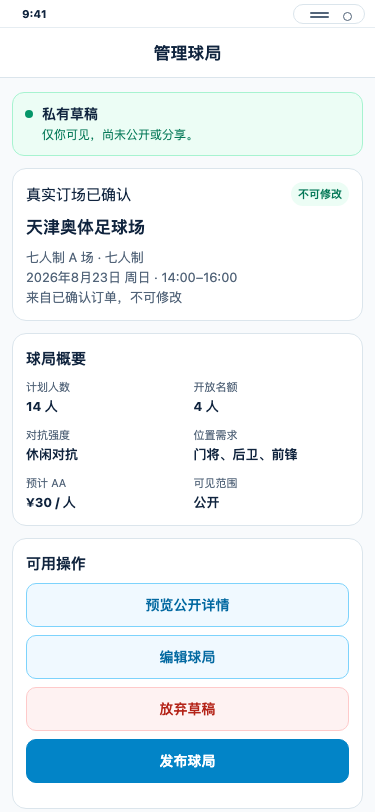
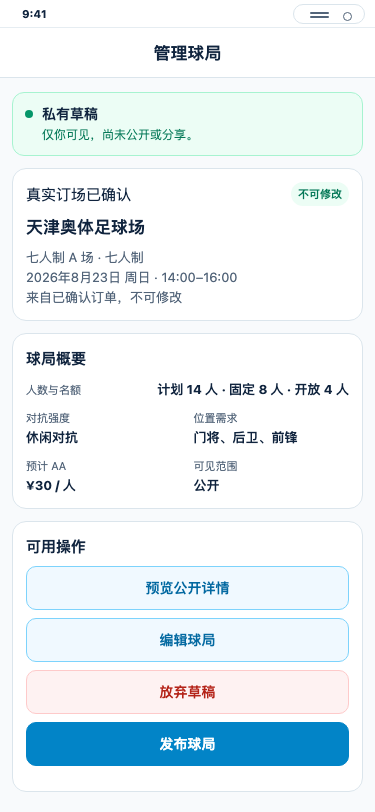
fix: preserve captain draft and cancellation truth

diff --git a/artifacts/ui/references/captain-open-game-data.js b/artifacts/ui/references/captain-open-game-data.js
@@ -11,14 +11,32 @@ export const CAPTAIN_OPEN_GAME_INTERNAL_STATE_IDS = freeze([...CAPTAIN_OPEN_GAME
 export const CAPTAIN_OPEN_GAME_LIFECYCLES = freeze(["UNSAVED", "DRAFT", "PUBLISHED", "CANCELLED"]);
 const managementStateByLifecycle = freeze({ UNSAVED: "create-ready", DRAFT: "draft-manage", PUBLISHED: "published-manage", CANCELLED: "cancelled-readonly" });
 export const resolveFixtureRoute = (lifecycle, requestedState) => {
-  if (requestedState === "public-readonly") return "public-readonly";
   if (lifecycle === "CANCELLED") return "cancelled-readonly";
+  if (requestedState === "public-readonly") return "public-readonly";
   if (requestedState === "create-ready") return "create-ready";
   return managementStateByLifecycle[lifecycle];
 };
 export const CONFIRMED_ORDER = freeze({
   venue: "天津奥体足球场", pitch: "七人制 A 场", date: "2026年8月23日 周日", time: "14:00–16:00", format: "七人制", booking: "来自已确认订单，不可修改",
 });
+export const DEFAULT_GAME_FORM = freeze({ total: 14, fixed: 8, open: 4, intensity: "休闲对抗", positions: "门将、后卫、前锋", aa: "¥30 / 人", deadline: "8月23日 12:00", visibility: "公开" });
+export const createGameForm = (source = DEFAULT_GAME_FORM) => ({ ...source });
+export const freezeGameSnapshot = (form) => freeze({ ...form });
+export const applyFormStepperAction = (form, action) => {
+  const next = createGameForm(form);
+  if (action === "total-decrease") next.total = Math.max(4, next.fixed + next.open, next.total - 1);
+  if (action === "total-increase") next.total = Math.min(30, next.total + 1);
+  if (action === "fixed-decrease") next.fixed = Math.max(1, next.fixed - 1);
+  if (action === "fixed-increase") next.fixed = Math.min(next.total - next.open, next.fixed + 1);
+  if (action === "open-decrease") next.open = Math.max(1, next.open - 1);
+  if (action === "open-increase") next.open = Math.min(next.total - next.fixed, next.open + 1);
+  return next;
+};
+export const getGameSummary = (game) => [
+  ["人数与名额", `计划 ${game.total} 人 · 固定 ${game.fixed} 人 · 开放 ${game.open} 人`],
+  ["对抗强度", game.intensity], ["位置需求", game.positions], ["预计 AA", game.aa], ["可见范围", game.visibility],
+];
+const getPublishDetails = (game) => [["真实场地", "天津奥体足球场 · 七人制 A 场"], ["开放名额", `${game.open} 人`], ["预计 AA", game.aa], ["线下结算", "到场线下结算，平台不代收或担保"], ["报名截止", game.deadline], ["可见范围", game.visibility]];
 
 const actions = {
   save: { id: "save-draft", label: "保存草稿", nextState: "draft-manage", fixtureTransition: "save private DRAFT" },
@@ -33,7 +51,7 @@ const actions = {
 };
 
 export const CAPTAIN_OPEN_GAME_STATES = freeze({
-  "create-ready": { id: "create-ready", title: "创建球局", actions: [actions.save], values: { total: 14, fixed: 8, open: 4, intensity: "休闲对抗", positions: "门将、后卫、前锋", aa: "¥30 / 人", deadline: "8月23日 12:00", visibility: "公开" } },
+  "create-ready": { id: "create-ready", title: "创建球局", actions: [actions.save], values: DEFAULT_GAME_FORM },
   "draft-manage": { id: "draft-manage", title: "管理球局", status: "私有草稿", description: "仅你可见，尚未公开或分享。", actions: [actions.preview, actions.edit, actions.abandon, actions.beginPublish] },
   "published-manage": { id: "published-manage", title: "管理球局", status: "已发布", description: "公开详情已可查看；申请功能尚未开放。", actions: [actions.share, actions.open, actions.edit, actions.cancel], cancelNotice: "只取消本次开放球局，不会取消已预订场地，也不会发起退款。" },
   "public-readonly": { id: "public-readonly", title: "公开球局", notice: "当前仅供查看，申请加入即将开放", actions: [actions.return] },
@@ -44,7 +62,6 @@ export const FIXTURE_PANELS = freeze({
   publish: {
     title: "发布前确认", message: "发布后会展示下列公开信息；平台不代收或担保线下结算。",
     items: ["真实场地", "开放名额", "预计 AA", "线下结算", "报名截止", "可见范围"],
-    details: [["真实场地", "天津奥体足球场 · 七人制 A 场"], ["开放名额", "4 人"], ["预计 AA", "¥30 / 人"], ["线下结算", "到场线下结算，平台不代收或担保"], ["报名截止", "8月23日 12:00"], ["可见范围", "公开"]],
     close: { id: "close-panel", label: "返回修改", fixtureTransition: "close publish confirmation" },
     confirm: { id: "confirm-publish", label: "确认发布", fixtureTransition: "publish Fixture game" },
   },
@@ -76,7 +93,8 @@ const getRoute = () => {
 let { state: requestedState, from: returnState, panel, lifecycle } = getRoute();
 let stateId = resolveFixtureRoute(lifecycle, requestedState);
 let feedback = "";
-let formValues = { ...CAPTAIN_OPEN_GAME_STATES["create-ready"].values };
+let formValues = createGameForm();
+let savedGame = freezeGameSnapshot(formValues);
 
 const el = (tag, className, text) => { const node = document.createElement(tag); if (className) node.className = className; if (text !== undefined) node.textContent = text; return node; };
 const button = (action, className = "secondary") => { const node = el("button", className, action.label); node.type = "button"; node.dataset.action = action.id; node.setAttribute("aria-label", action.label); return node; };
@@ -96,14 +114,15 @@ const createScreen = () => {
   screen.append(el("p", "disclosure", lifecycle === "PUBLISHED" ? "装备：深浅两套球衣；提前 15 分钟到场。保存修改后仍保持已发布。" : "装备：深浅两套球衣；提前 15 分钟到场。保存后仅创建你可见的私有草稿。"));
   return screen;
 };
-const gameSummary = () => { const card = el("section", "card section"); const grid = el("dl", "summary-grid"); [["计划人数", "14 人"], ["开放名额", "4 人"], ["对抗强度", "休闲对抗"], ["位置需求", "门将、后卫、前锋"], ["预计 AA", "¥30 / 人"], ["可见范围", "公开"]].forEach(([term, value]) => { const item = el("div"); item.append(el("dt", "", term), el("dd", "", value)); grid.append(item); }); card.append(el("h2", "summary-title", "球局概要"), grid); return card; };
+const gameSummary = (game = savedGame) => { const card = el("section", "card section"); const grid = el("dl", "summary-grid"); getGameSummary(game).forEach(([term, value]) => { const item = el("div"); item.append(el("dt", "", term), el("dd", "", value)); grid.append(item); }); card.append(el("h2", "summary-title", "球局概要"), grid); return card; };
 const manageScreen = (state) => { const screen = el("section", "screen screen--manage"); const status = el("section", `status-row${state.lifecycle === "CANCELLED" ? " status-row--cancelled" : ""}`); const copy = el("div"); copy.append(el("strong", "", state.status), el("p", "", state.description)); status.append(el("span", "status-dot"), copy); screen.append(status, orderCard(), gameSummary()); if (state.actions.length) { const list = el("section", "action-list section"); state.actions.forEach((action) => list.append(button(action, action.id === "cancel" || action.id === "abandon" ? "danger" : action.id === "begin-publish" ? "primary" : "secondary"))); screen.append(section("可用操作", list)); } if (state.cancelNotice) screen.append(el("p", "disclosure", state.cancelNotice)); return screen; };
 const publicScreen = (state) => { const screen = el("section", "screen screen--public"); screen.append(el("p", "eyebrow", "真实订场已确认"), el("h2", "public-heading", "奥体周日轻松局"), el("p", "public-subtitle", "津门周末足球队 · 休闲对抗"), orderCard(), gameSummary()); const details = el("section", "card public-details section"); details.append(el("p", "", "最低经验：有基本传接球经验即可"), el("p", "", "报名截止：8月23日 12:00"), el("p", "", "装备与到场：深浅两套球衣，提前 15 分钟到场"), el("p", "", "成人参与，请自行评估运动风险；到场线下结算，平台不代收或担保。")); screen.append(details, el("p", "public-notice", state.notice), button(actions.return, "secondary")); return screen; };
 const renderPanel = () => {
   if (!panel) return null;
   const data = FIXTURE_PANELS[panel]; const scrim = el("section", "fixture-scrim"); const sheet = el("section", "fixture-sheet");
   sheet.append(el("h2", "", data.title), el("p", "", data.message));
-  if (data.details) { const details = el("dl", "confirm-details"); data.details.forEach(([label, value]) => { const item = el("div"); item.append(el("dt", "", label), el("dd", "", value)); details.append(item); }); sheet.append(details); }
+  const detailsData = panel === "publish" ? getPublishDetails(savedGame) : data.details;
+  if (detailsData) { const details = el("dl", "confirm-details"); detailsData.forEach(([label, value]) => { const item = el("div"); item.append(el("dt", "", label), el("dd", "", value)); details.append(item); }); sheet.append(details); }
   const controls = el("div", "fixture-sheet__actions"); if (data.close) controls.append(button(data.close, "secondary")); if (data.confirm) controls.append(button(data.confirm, panel === "cancel" || panel === "abandon" ? "danger" : "primary")); sheet.append(controls); scrim.append(sheet); return scrim;
 };
 const syncUrl = (historyMethod) => { const params = new URLSearchParams(window.location.search); params.set("state", stateId); params.delete("panel"); if (stateId === "public-readonly") params.set("from", returnState); else params.delete("from"); window.history[historyMethod]({ state: stateId, from: returnState, lifecycle }, "", `${window.location.pathname}?${params}`); };
@@ -111,19 +130,20 @@ const navigate = (nextState, source = stateId) => { stateId = resolveFixtureRout
 const commitLifecycle = (nextLifecycle) => { lifecycle = nextLifecycle; stateId = managementStateByLifecycle[lifecycle]; returnState = stateId === "draft-manage" || stateId === "published-manage" ? stateId : returnState; panel = null; syncUrl("replaceState"); render(); };
 const transition = (action) => {
   const step = /^(total|fixed|open)-(increase|decrease)$/.exec(action);
-  if (step) { const [, field, direction] = step; const amount = direction === "increase" ? 1 : -1; const limits = { total: [4, 30], fixed: [1, formValues.total - formValues.open], open: [1, formValues.total - formValues.fixed] }; formValues[field] = Math.min(limits[field][1], Math.max(limits[field][0], formValues[field] + amount)); feedback = "update form Fixture value"; render(); return; }
+  if (step) { formValues = applyFormStepperAction(formValues, action); feedback = "update form Fixture value"; render(); return; }
   if (action === "begin-publish") { feedback = actions.beginPublish.fixtureTransition; panel = "publish"; render(); return; }
   if (action === "abandon") { feedback = actions.abandon.fixtureTransition; panel = "abandon"; render(); return; }
   if (action === "cancel") { feedback = actions.cancel.fixtureTransition; panel = "cancel"; render(); return; }
   if (action === "share") { feedback = actions.share.fixtureTransition; panel = "share"; render(); return; }
   if (action === "close-panel") { feedback = FIXTURE_PANELS[panel].close.fixtureTransition; panel = null; render(); return; }
   if (action === "confirm-publish") { feedback = FIXTURE_PANELS.publish.confirm.fixtureTransition; commitLifecycle("PUBLISHED"); return; }
-  if (action === "confirm-abandon") { feedback = FIXTURE_PANELS.abandon.confirm.fixtureTransition; commitLifecycle("UNSAVED"); return; }
+  if (action === "confirm-abandon") { feedback = FIXTURE_PANELS.abandon.confirm.fixtureTransition; formValues = createGameForm(); savedGame = freezeGameSnapshot(formValues); commitLifecycle("UNSAVED"); return; }
   if (action === "confirm-cancel") { feedback = FIXTURE_PANELS.cancel.confirm.fixtureTransition; commitLifecycle("CANCELLED"); return; }
   if (action === "return-manage") { feedback = actions.return.fixtureTransition; navigate(returnState, returnState); return; }
   const found = CAPTAIN_OPEN_GAME_STATES[stateId].actions.find(({ id }) => id === action); if (!found) return;
   feedback = found.fixtureTransition;
-  if (action === "save-draft") { commitLifecycle(lifecycle === "PUBLISHED" ? "PUBLISHED" : "DRAFT"); return; }
+  if (action === "save-draft") { savedGame = freezeGameSnapshot(formValues); commitLifecycle(lifecycle === "PUBLISHED" ? "PUBLISHED" : "DRAFT"); return; }
+  if (action === "edit") formValues = createGameForm(savedGame);
   navigate(found.nextState, stateId);
 };
 function render() { const state = CAPTAIN_OPEN_GAME_STATES[stateId]; const publishedEdit = stateId === "create-ready" && lifecycle === "PUBLISHED"; app.replaceChildren(system(publishedEdit ? "编辑球局" : state.title)); if (feedback) app.append(el("p", "fixture-feedback", `Fixture：${feedback}`)); app.append(stateId === "create-ready" ? createScreen() : stateId === "public-readonly" ? publicScreen(state) : manageScreen(state)); if (stateId === "create-ready") { const footer = el("footer", "footer"); footer.append(button(publishedEdit ? { ...actions.save, label: "保存修改" } : actions.save, "primary")); app.append(footer); } const overlay = renderPanel(); if (overlay) app.append(overlay); app.querySelectorAll("button[data-action]").forEach((node) => node.addEventListener("click", () => transition(node.dataset.action))); }

diff --git a/artifacts/ui/references/captain-open-game.css b/artifacts/ui/references/captain-open-game.css
@@ -78,6 +78,8 @@ button { color: inherit; cursor: pointer; }
 .status-row--cancelled p { color: var(--danger); }
 .summary-grid { display: grid; grid-template-columns: 1fr 1fr; gap: 10px 12px; margin: 0; }
 .summary-grid div { min-width: 0; }
+.summary-grid div:first-child { display: grid; grid-column: 1 / -1; grid-template-columns: auto minmax(0, 1fr); align-items: baseline; gap: 8px; }
+.summary-grid div:first-child dd { text-align: right; }
 .summary-grid dt { color: var(--muted); font-size: 11px; line-height: 17px; }
 .summary-grid dd { margin: 2px 0 0; font-size: 13px; font-weight: 700; line-height: 19px; }
 .action-list { display: grid; gap: 8px; }

diff --git a/artifacts/ui/flows/captain-open-game.md b/artifacts/ui/flows/captain-open-game.md
@@ -25,3 +25,7 @@
 公开页只公开场馆、物理场地、日期时间、人数、强度、位置、AA、截止和到场说明；公开页不暴露联系、订单或支付字段。
 
 Fixture 将 `UNSAVED`、`DRAFT`、`PUBLISHED` 和 `CANCELLED` 作为独立业务生命周期保存。保存草稿、确认发布、放弃草稿和确认取消以 `replaceState` 替换当前 history 条目；公开预览及编辑等纯导航才使用 `pushState`。因此浏览器 Back 命中旧的草稿或已发布 URL 时，`popstate` 先按当前生命周期解析：`PUBLISHED` 不会回退为 `DRAFT`，`CANCELLED` 不会重新显示分享、编辑或取消操作。
+
+人数步进器始终即时约束 `固定队员 + 开放名额 ≤ 计划总人数`：减少计划人数会停在当前固定与开放人数之和，增加固定或开放人数会停在剩余容量。保存草稿时冻结当前表单快照；草稿、已发布管理、公开详情、发布确认和编辑预填都读取同一快照，而不是各自使用默认人数。
+
+取消后生命周期优先于 history 路由：若 Back 落到旧的 `public-readonly` 或 `published-manage` URL，仍改渲染内部 `CANCELLED` 只读结果，不展示未取消公开详情或旧管理动作。
